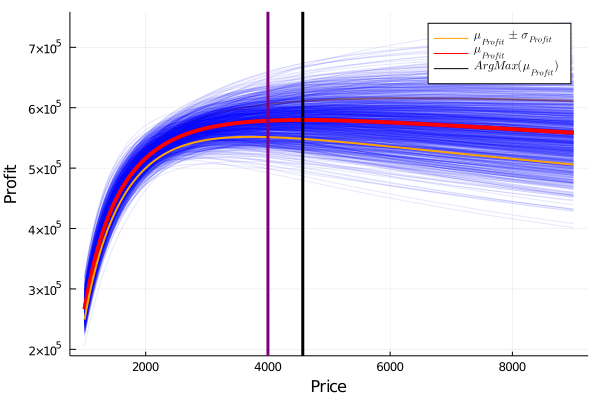
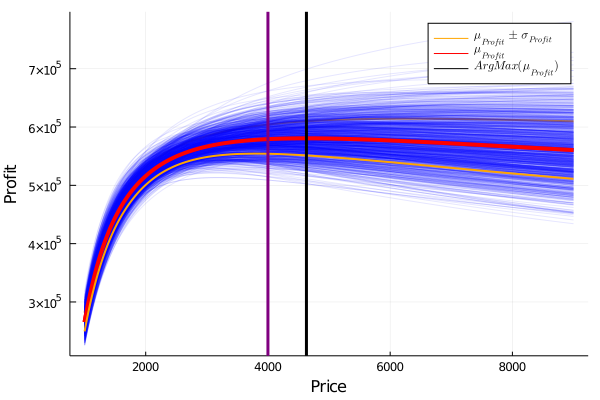
correct Lorenz name

diff --git a/docs/optimal-pricing.html b/docs/optimal-pricing.html
@@ -279,7 +279,7 @@ code span.wa { color: #60a0b0; font-weight: bold; font-style: italic; } /* Warni
   </ul></li>
   <li class="divider"></li>
   <li><a href="https://github.com/unbalancedparentheses/data_science_in_julia_for_hackers" target="blank">Published with bookdown</a></li>
-    
+
 </ul>
 
       </nav>
@@ -311,7 +311,7 @@ code span.wa { color: #60a0b0; font-weight: bold; font-style: italic; } /* Warni
 <span id="cb1-10"><a href="optimal-pricing.html#cb1-10" aria-hidden="true" tabindex="-1"></a><span class="kw">using</span> LaTeXStrings</span></code></pre></div>
 <div id="overview" class="section level2" number="9.1">
 <h2><span class="header-section-number">9.1</span> Overview</h2>
-<p>In a bayesian framework we can work intrinsically with the uncertainty of the data. It allows us to include it in our models. This is especially beneficial when we want to make a decision based on the results of a model. In this type of problem, if we optimize the expected value of the function we want to maximize, we obtain just a number, losing all the information and richness uncertainty can give us.</p>
+<p>In a Bayesian framework we can work intrinsically with the uncertainty of the data. It allows us to include it in our models. This is especially beneficial when we want to make a decision based on the results of a model. In this type of problem, if we optimize the expected value of the function we want to maximize, we obtain just a number, losing all the information and richness uncertainty can give us.</p>
 <p>In real-life scenarios, when making decisions we almost never have all the necessary information and therefore we have to deal with uncertainty. So it’s important to be able to take into account how certain we are of the information we have. It may be the case that the value that maximizes (or minimizes) certain problem comes with a lot of uncertainty so it would be more appropriate to choose other with a better optimization-uncertainty trade off.</p>
 <p>Bayesian inference allows us to do this because of its approach of a statistical problem. From its point of view, the data obtained on an event is fixed. They are observations that have already happened and there is nothing stochastic about it. So the data is deterministic.</p>
 <p>On the contrary, the parameters of the models we propose to describe such data are stochastic, following a given probability distribution. In this way, the inference that is made is on the complete distributions of our parameters, which allows us, precisely, to include the uncertainty into our models.</p>
@@ -345,7 +345,7 @@ code span.wa { color: #60a0b0; font-weight: bold; font-style: italic; } /* Warni
 <p>The answer to this question is not straightforward. To start building an intuition, we must think about how people’s income is distributed.</p>
 <p>Surely many of you have the main idea: income is not distributed equally across the population.</p>
 <p>In general, a few people concentrate most of the income, and only a little of the income is distributed in the majority of the population. The distributions that describe this phenomenon are called ‘power laws.’ The best known is perhaps the Pareto distribution or 80-20 distribution. A distribution widely used in business management referring to the fact that, for example, 20% of the mix of products sold are those that generate 80% of the profits.</p>
-<p>In economics this idea is presented with the Lorentz curve:</p>
+<p>In economics this idea is presented with the Lorenz curve:</p>
 <div class="sourceCode" id="cb3"><pre class="sourceCode julia"><code class="sourceCode julia"><span id="cb3-1"><a href="optimal-pricing.html#cb3-1" aria-hidden="true" tabindex="-1"></a><span class="kw">begin</span></span>
 <span id="cb3-2"><a href="optimal-pricing.html#cb3-2" aria-hidden="true" tabindex="-1"></a><span class="kw">function</span> lorenz(y)  </span>
 <span id="cb3-3"><a href="optimal-pricing.html#cb3-3" aria-hidden="true" tabindex="-1"></a>    n <span class="op">=</span> length(y)</span>
@@ -365,12 +365,12 @@ code span.wa { color: #60a0b0; font-weight: bold; font-style: italic; } /* Warni
 <span id="cb3-17"><a href="optimal-pricing.html#cb3-17" aria-hidden="true" tabindex="-1"></a></span>
 <span id="cb3-18"><a href="optimal-pricing.html#cb3-18" aria-hidden="true" tabindex="-1"></a>f_vals<span class="op">,</span> l_vals <span class="op">=</span> lorenz(w)</span>
 <span id="cb3-19"><a href="optimal-pricing.html#cb3-19" aria-hidden="true" tabindex="-1"></a>    </span>
-<span id="cb3-20"><a href="optimal-pricing.html#cb3-20" aria-hidden="true" tabindex="-1"></a>plot(f_vals<span class="op">,</span> label<span class="op">=</span><span class="st">&quot;Lorentz curve&quot;</span><span class="op">,</span>l_vals<span class="op">,</span> l<span class="op">=</span><span class="fl">3</span><span class="op">,</span>xlabel<span class="op">=</span><span class="st">&quot;Cumulative population&quot;</span><span class="op">,</span> xaxis<span class="op">=</span><span class="fl">0</span><span class="op">:</span><span class="fl">0.1</span><span class="op">:</span><span class="fl">1</span>)</span>
+<span id="cb3-20"><a href="optimal-pricing.html#cb3-20" aria-hidden="true" tabindex="-1"></a>plot(f_vals<span class="op">,</span> label<span class="op">=</span><span class="st">&quot;Lorenz curve&quot;</span><span class="op">,</span>l_vals<span class="op">,</span> l<span class="op">=</span><span class="fl">3</span><span class="op">,</span>xlabel<span class="op">=</span><span class="st">&quot;Cumulative population&quot;</span><span class="op">,</span> xaxis<span class="op">=</span><span class="fl">0</span><span class="op">:</span><span class="fl">0.1</span><span class="op">:</span><span class="fl">1</span>)</span>
 <span id="cb3-21"><a href="optimal-pricing.html#cb3-21" aria-hidden="true" tabindex="-1"></a>plot<span class="op">!</span>(f_vals<span class="op">,</span> label<span class="op">=</span><span class="st">&quot;Perfect equality&quot;</span><span class="op">,</span> f_vals<span class="op">,</span> l<span class="op">=</span><span class="fl">3</span><span class="op">,</span> ylabel<span class="op">=</span><span class="st">&quot;Cumulative income&quot;</span><span class="op">,</span>yaxis<span class="op">=</span><span class="fl">0</span><span class="op">:</span><span class="fl">0.1</span><span class="op">:</span><span class="fl">1</span>)</span>
 <span id="cb3-22"><a href="optimal-pricing.html#cb3-22" aria-hidden="true" tabindex="-1"></a><span class="kw">end</span></span></code></pre></div>
 <p><img src="data_science_in_julia_for_hackers_files/figure-html/chap_9_plot_2-J1.png" /><!-- --></p>
-<p><em>Lorentz curve. A graphical representation of income inequality.</em></p>
-<p>In this graph, the x-axis represents the accumulated population and the y-axis the accumulated income. Going from left to right and as you move along the x-axis, more and more income is accumulated by fewer people. For example, the first 10% of the population barely accumulates 1% of income while the richest 10% on the right accumulates 40%. An ideal society with a perfectly distributed income would have a straight 45º Lorentz curve.</p>
+<p><em>Lorenz curve. A graphical representation of income inequality.</em></p>
+<p>In this graph, the x-axis represents the accumulated population and the y-axis the accumulated income. Going from left to right and as you move along the x-axis, more and more income is accumulated by fewer people. For example, the first 10% of the population barely accumulates 1% of income while the richest 10% on the right accumulates 40%. An ideal society with a perfectly distributed income would have a straight 45º Lorenz curve.</p>
 <p>With this in mind we can already generate an intuition that will help us answer the initial question: why use a decreasing exponential and not a negative-slope line?</p>
 <p>Well, since a great majority of people have a small relative income and a minority has a large one, as we increase the price of the product, a large number of people with low income can no longer afford it. This process continues until only people with a high income are left and their consumption preferences are not greatly affected by the price increase.</p>
 <p>The exponential distribution is useful to describe this.</p>
@@ -412,8 +412,8 @@ Perhaps you are wondering the importance of being able to have clarity about the
 <p><span class="math inline">\(Sales = Quantity * Price\)</span></p>
 <p>So it is vitally important to analyze how much one variable varies when moving the other.</p>
 <p>It is evident that in the case of inelastic goods, it is always convenient to raise the price in terms of increasing the profit. On the other hand, when we work with a good that has some kind of elasticity, the increase generated by setting a higher price can be offset by an even greater drop in the amount sold. So we have to understand very well that behavior in order to define the optimal price level.</p>
-<div id="dealing-with-uncertainty" class="section level4" number="9.2.2.1">
-<h4><span class="header-section-number">9.2.2.1</span> Dealing with uncertainty</h4>
+<div id="dealing-with-uncertanty" class="section level4" number="9.2.2.1">
+<h4><span class="header-section-number">9.2.2.1</span> Dealing with uncertanty</h4>
 <p>Anyway, if our product is a new idea, the problem depicted above gets a lot more complicated if the product is brand new, an invention, and the approach it’s different. That’s the problem we are about to solve:</p>
 <p>Suppose you are about to release a completely new and disrupting product. Your product is so different that you don’t have others to compare with, at least in the local market, so you are not sure about what price to choose. You don’t want to lose money of course, so you want the maximum profit you could get. To test the waters, a common choice is to run a pilot test, offering your product at different prices and see how customers react. So you record how much you sell at what price, but how do we proceed?</p>
 <p>Now, given the model and the data available, we define it</p>
@@ -421,7 +421,7 @@ Perhaps you are wondering the importance of being able to have clarity about the
 <p><span class="math inline">\(Q = aP^{c}\)</span></p>
 <p>In order to do this, an intelligent strategy is to linearize the relationship in order to perform a simple linear regression. Simply taking the logarithm of both sides of the equation achieves the goal:</p>
 <p><span class="math inline">\(log(Q)=log(a) + clog(P)\)</span></p>
-<p>Now, the only thing left to do is to define the model in a bayesian framework for Julia, called Turing, which is used to do probabilistic programming.</p>
+<p>Now, the only thing left to do is to define the model in a Bayesian framework for Julia, called Turing, which is used to do probabilistic programming.</p>
 <div class="sourceCode" id="cb6"><pre class="sourceCode julia"><code class="sourceCode julia"><span id="cb6-1"><a href="optimal-pricing.html#cb6-1" aria-hidden="true" tabindex="-1"></a><span class="kw">begin</span></span>
 <span id="cb6-2"><a href="optimal-pricing.html#cb6-2" aria-hidden="true" tabindex="-1"></a>    <span class="pp">@model</span> <span class="kw">function</span> quantity(qval<span class="op">,</span>p0)</span>
 <span id="cb6-3"><a href="optimal-pricing.html#cb6-3" aria-hidden="true" tabindex="-1"></a>    loga <span class="op">~</span> Cauchy()</span>
@@ -449,7 +449,7 @@ Is doing this the best choice? Definitely not. Having the possibility to choose 
 <p>Another very important use of priors is to define the scale of the problem. In the example of height and weight it would be useful to say something like ‘It doesn’t make sense that for every additional kilogram of weight, a person will measure one meter more. At most a few centimeters.’ All this information can be communicated to our model through the priors we choose. Let’s leave it there for now.</p>
 <p>Returning to the code. Julia allows us to easily define the variables that are probability distributions using the ~ operator. Once we know <em>c</em> and <em>log a</em> for a given value of price, we can univocally determine the quantity, therefore the variables <span class="math inline">\(\log(\mu_0)\)</span> (and <span class="math inline">\(\mu_0\)</span>) are defined with the = operator, indicating a deterministic relation.</p>
 <p>In addition, since the quantity of product sold is a discrete one and it comes from adding independent purchases, they are modeled as a poisson distribution.</p>
-<p>But why do we subtract the mean for the price values? It's a good practice to avoid a common problem: multicollinearity. With multicollinearity, the models tend to be more certain about the plausible values of our model, meanwhile models with more normalized data are more conservative and they are less prone to overfitting, an unwanted effect we need to avoid if we expect our model to work good with new. As a rule of thumb, it is always good to standardize our data. That is, subtract their average and divide each by its standard deviation.</p>
+<p>But why do we subtract the mean for the price values? It’s a good practice to avoid a common problem: multicollinearity. With multicollinearity, the models tend to be more certain about the plausible values of our model, meanwhile models with more normalized data are more conservative and they are less prone to overfitting, an unwanted effect we need to avoid if we expect our model to work good with new. As a rule of thumb, it is always good to standardize our data. That is, subtract their average and divide each by its standard deviation.</p>
 </div>
 <div id="updating-our-beliefs" class="section level4" number="9.2.2.3">
 <h4><span class="header-section-number">9.2.2.3</span> Updating our beliefs</h4>
@@ -464,8 +464,8 @@ Is doing this the best choice? Definitely not. Having the possibility to choose 
 <span id="cb9-8"><a href="optimal-pricing.html#cb9-8" aria-hidden="true" tabindex="-1"></a>    ylabel<span class="op">!</span>(<span class="st">&quot;Quantity&quot;</span>)</span>
 <span id="cb9-9"><a href="optimal-pricing.html#cb9-9" aria-hidden="true" tabindex="-1"></a><span class="kw">end</span></span></code></pre></div>
 <p><img src="data_science_in_julia_for_hackers_files/figure-html/chap_9_plot_6-J1.png" /><!-- --></p>
-<p>As we said, in a bayesian framework our previous knowledge are the distributions we propose for each of the parameters and the relationship known between price and quantity.</p>
-<p>With this bayesian approach, our previous knowledge are the distributions we propose for each of the parameters and the relationship known between price and quantity. What we do now is to update our believes, incorporating in our model the data points we have recoded from our pilot test as show in the code bellow, instantiating our model with the points <em>Quantity</em> and <em>Price</em>. Our model now has computed what is called the <em>posterior distributions</em> for the parameters <em>log a</em> and <em>c</em>, our updated beliefs for the plausible values for this two parameters.</p>
+<p>As we said, in a Bayesian framework our previous knowledge are the distributions we propose for each of the parameters and the relationship known between price and quantity.</p>
+<p>With this Bayesian approach, our previous knowledge are the distributions we propose for each of the parameters and the relationship known between price and quantity. What we do now is to update our believes, incorporating in our model the data points we have recorded from our pilot test as show in the code bellow, instantiating our model with the points <em>Quantity</em> and <em>Price</em>. Our model now has computed what is called the <em>posterior distributions</em> for the parameters <em>log a</em> and <em>c</em>, our updated beliefs for the plausible values for this two parameters.</p>
 <div class="sourceCode" id="cb10"><pre class="sourceCode julia"><code class="sourceCode julia"><span id="cb10-1"><a href="optimal-pricing.html#cb10-1" aria-hidden="true" tabindex="-1"></a><span class="kw">begin</span></span>
 <span id="cb10-2"><a href="optimal-pricing.html#cb10-2" aria-hidden="true" tabindex="-1"></a>    model <span class="op">=</span> quantity(Quantity<span class="op">,</span> Price)</span>
 <span id="cb10-3"><a href="optimal-pricing.html#cb10-3" aria-hidden="true" tabindex="-1"></a>    posterior <span class="op">=</span> sample(model<span class="op">,</span> NUTS()<span class="op">,</span><span class="fl">1000</span>)</span>
@@ -483,9 +483,9 @@ Is doing this the best choice? Definitely not. Having the possibility to choose 
 Let’s stop for a moment and analyze this. We defined our model and asked Turing to return the best possible estimate of our parameters, taking into account our initial beliefs and the information obtained from the pilot test, and what Turing returned was a distribution of possibilities for those parameters.</p>
 <p>But, our model is defined by a single value of a and c. So what do we do? One option would be to take the mean of our distributions.</p>
 <div class="sourceCode" id="cb12"><pre class="sourceCode julia"><code class="sourceCode julia"><span id="cb12-1"><a href="optimal-pricing.html#cb12-1" aria-hidden="true" tabindex="-1"></a>mean(post_loga[<span class="fl">1</span>])</span></code></pre></div>
-<pre><code>## 5.5460012328826735</code></pre>
+<pre><code>## 5.546444583138311</code></pre>
 <div class="sourceCode" id="cb14"><pre class="sourceCode julia"><code class="sourceCode julia"><span id="cb14-1"><a href="optimal-pricing.html#cb14-1" aria-hidden="true" tabindex="-1"></a>mean(post_c[<span class="fl">1</span>])</span></code></pre></div>
-<pre><code>## -1.1838279679326476</code></pre>
+<pre><code>## -1.1808080259045772</code></pre>
 <p>So Log(a) would be 5.55 and c -1.18, and we should only have to replace those values in our model equation to get the answer to our problem:</p>
 <p>$ Log(Q)=5.55 - 1.18Log(P) $</p>
 <p>This would make sense? Not even close. By doing this we would be throwing away a lot of precious information that the Bayesian framework gives us: The uncertainty about our inference.</p>
@@ -501,7 +501,7 @@ Let’s stop for a moment and analyze this. We defined our model and asked Turin
 <span id="cb16-6"><a href="optimal-pricing.html#cb16-6" aria-hidden="true" tabindex="-1"></a>    q[<span class="op">:,</span>i] <span class="op">=</span> exp.(post_loga[<span class="fl">1</span>][i] .<span class="op">+</span> post_c[<span class="fl">1</span>][i] <span class="op">.*</span> (log.(p) .<span class="op">-</span> mean(log.(Price))))</span>
 <span id="cb16-7"><a href="optimal-pricing.html#cb16-7" aria-hidden="true" tabindex="-1"></a><span class="kw">end</span></span>
 <span id="cb16-8"><a href="optimal-pricing.html#cb16-8" aria-hidden="true" tabindex="-1"></a><span class="kw">end</span></span></code></pre></div>
-<p>Here we are creating an array of as many rows as price values we want to observe and with as many columns as samples we have of each of our log and c parameters, that is, as many columns as models we have at our disposal. Let's plot them all and see what happen:</p>
+<p>Here we are creating an array of as many rows as price values we want to observe and with as many columns as samples we have of each of our log and c parameters, that is, as many columns as models we have at our disposal. Let’s plot them all and see what happen:</p>
 <div class="sourceCode" id="cb17"><pre class="sourceCode julia"><code class="sourceCode julia"><span id="cb17-1"><a href="optimal-pricing.html#cb17-1" aria-hidden="true" tabindex="-1"></a><span class="kw">begin</span></span>
 <span id="cb17-2"><a href="optimal-pricing.html#cb17-2" aria-hidden="true" tabindex="-1"></a>    plot(p<span class="op">,</span>q[<span class="op">:,</span><span class="fl">1</span>]<span class="op">,</span> xlim<span class="op">=</span>(<span class="fl">1000</span><span class="op">,</span><span class="fl">6000</span>))</span>
 <span id="cb17-3"><a href="optimal-pricing.html#cb17-3" aria-hidden="true" tabindex="-1"></a>    <span class="kw">for</span> i <span class="kw">in</span> collect(<span class="fl">1</span><span class="op">:</span>length(post_c[<span class="fl">1</span>]))</span>
@@ -531,7 +531,7 @@ Let’s stop for a moment and analyze this. We defined our model and asked Turin
 <h2><span class="header-section-number">9.3</span> Maximizing profit</h2>
 <p>Now that we have estimated our posterior distributions, we will try to answer the following question: what is the price that will give us the maximum profit?</p>
 <p>This is why we calculated the relationship between the price and the quantity of our product. As we said before, depending on that relation, it was going to be possible to define an optimal price point. Now we only have to add one more part to the equation: the production costs.</p>
-<p>Having this, we will be able to set up our profit function that will tell us, for each price we choose, how much money we would expect to earn. So let's define it:</p>
+<p>Having this, we will be able to set up our profit function that will tell us, for each price we choose, how much money we would expect to earn. So let’s define it:</p>
 <p>As many of you know, the profit on the sale of a product is calculated as income minus costs.</p>
 <p><span class="math inline">\(Profit=Price * Quantity - Cost\)</span></p>
 <p>But also the cost can be divided between the one that doesn’t depend on the production and I always have, and the one that does.</p>
@@ -547,12 +547,12 @@ Let’s stop for a moment and analyze this. We defined our model and asked Turin
 <p>Now we can plot the profit for many sampled values from the posterior distributions of our model and find the maximum.</p>
 <div class="sourceCode" id="cb20"><pre class="sourceCode julia"><code class="sourceCode julia"><span id="cb20-1"><a href="optimal-pricing.html#cb20-1" aria-hidden="true" tabindex="-1"></a>mxval<span class="op">,</span> mxindx <span class="op">=</span> findmax(mean(profit<span class="op">,</span> dims<span class="op">=</span><span class="fl">2</span>)<span class="op">;</span> dims<span class="op">=</span><span class="fl">1</span>)<span class="op">;</span></span></code></pre></div>
 <div class="sourceCode" id="cb21"><pre class="sourceCode julia"><code class="sourceCode julia"><span id="cb21-1"><a href="optimal-pricing.html#cb21-1" aria-hidden="true" tabindex="-1"></a>mxval[<span class="fl">1</span>]</span></code></pre></div>
-<pre><code>## 579697.8940202671</code></pre>
+<pre><code>## 580629.7407600599</code></pre>
 <p>With the unfavorable (or favorable) case of:</p>
 <div class="sourceCode" id="cb23"><pre class="sourceCode julia"><code class="sourceCode julia"><span id="cb23-1"><a href="optimal-pricing.html#cb23-1" aria-hidden="true" tabindex="-1"></a>unfav <span class="op">=</span> mxval[<span class="fl">1</span>] <span class="op">-</span> std(profit[mxindx[<span class="fl">1</span>][<span class="fl">1</span>]<span class="op">,</span> <span class="op">:</span> ])</span></code></pre></div>
-<pre><code>## 548417.8658175807</code></pre>
+<pre><code>## 551273.5077073544</code></pre>
 <div class="sourceCode" id="cb25"><pre class="sourceCode julia"><code class="sourceCode julia"><span id="cb25-1"><a href="optimal-pricing.html#cb25-1" aria-hidden="true" tabindex="-1"></a>fav <span class="op">=</span> mxval[<span class="fl">1</span>] <span class="op">+</span> std(profit[mxindx[<span class="fl">1</span>][<span class="fl">1</span>]<span class="op">,</span> <span class="op">:</span> ])</span></code></pre></div>
-<pre><code>## 610977.9222229534</code></pre>
+<pre><code>## 609985.9738127654</code></pre>
 <div class="sourceCode" id="cb27"><pre class="sourceCode julia"><code class="sourceCode julia"><span id="cb27-1"><a href="optimal-pricing.html#cb27-1" aria-hidden="true" tabindex="-1"></a><span class="kw">begin</span></span>
 <span id="cb27-2"><a href="optimal-pricing.html#cb27-2" aria-hidden="true" tabindex="-1"></a>s <span class="op">=</span> latexstring(<span class="st">&quot;</span><span class="sc">\\</span><span class="st">mu_{Profit}&quot;</span>)</span>
 <span id="cb27-3"><a href="optimal-pricing.html#cb27-3" aria-hidden="true" tabindex="-1"></a>s2 <span class="op">=</span> latexstring(<span class="st">&quot;</span><span class="sc">\\</span><span class="st">mu_{Profit} </span><span class="sc">\\</span><span class="st">pm </span><span class="sc">\\</span><span class="st">sigma_{Profit}&quot;</span>)</span>
@@ -589,12 +589,12 @@ For example, let’s look at the case where an alternative price of $4000 is cho
 <div class="sourceCode" id="cb32"><pre class="sourceCode julia"><code class="sourceCode julia"><span id="cb32-1"><a href="optimal-pricing.html#cb32-1" aria-hidden="true" tabindex="-1"></a><span class="co">#A faster way:</span></span>
 <span id="cb32-2"><a href="optimal-pricing.html#cb32-2" aria-hidden="true" tabindex="-1"></a>prof_4000 <span class="op">=</span> profit[findfirst(isequal(<span class="fl">4000</span>)<span class="op">,</span> p)<span class="op">,</span> <span class="op">:</span>]<span class="op">;</span></span></code></pre></div>
 <div class="sourceCode" id="cb33"><pre class="sourceCode julia"><code class="sourceCode julia"><span id="cb33-1"><a href="optimal-pricing.html#cb33-1" aria-hidden="true" tabindex="-1"></a>mean_prof_4000 <span class="op">=</span> mean(profit_4000)</span></code></pre></div>
-<pre><code>## 578540.069393245</code></pre>
+<pre><code>## 579251.5221961857</code></pre>
 <p>With the unfavorable (or favorable) case of:</p>
 <div class="sourceCode" id="cb35"><pre class="sourceCode julia"><code class="sourceCode julia"><span id="cb35-1"><a href="optimal-pricing.html#cb35-1" aria-hidden="true" tabindex="-1"></a>unfav_4000 <span class="op">=</span> mean(profit_4000) <span class="op">-</span> std(profit_4000)</span></code></pre></div>
-<pre><code>## 551381.9489297445</code></pre>
+<pre><code>## 554168.5339511412</code></pre>
 <div class="sourceCode" id="cb37"><pre class="sourceCode julia"><code class="sourceCode julia"><span id="cb37-1"><a href="optimal-pricing.html#cb37-1" aria-hidden="true" tabindex="-1"></a>mean(profit_4000) <span class="op">+</span> std(profit_4000)</span></code></pre></div>
-<pre><code>## 605698.1898567455</code></pre>
+<pre><code>## 604334.5104412301</code></pre>
 <div class="sourceCode" id="cb39"><pre class="sourceCode julia"><code class="sourceCode julia"><span id="cb39-1"><a href="optimal-pricing.html#cb39-1" aria-hidden="true" tabindex="-1"></a><span class="kw">begin</span>   </span>
 <span id="cb39-2"><a href="optimal-pricing.html#cb39-2" aria-hidden="true" tabindex="-1"></a>plot(p<span class="op">,</span>mean(profit<span class="op">,</span> dims<span class="op">=</span><span class="fl">2</span>) <span class="op">+</span> std(profit<span class="op">,</span> dims<span class="op">=</span><span class="fl">2</span>)<span class="op">,</span>  color <span class="op">=</span> <span class="st">&quot;orange&quot;</span><span class="op">,</span> lw<span class="op">=</span><span class="fl">2</span><span class="op">,</span> label <span class="op">=</span>s2)</span>
 <span id="cb39-3"><a href="optimal-pricing.html#cb39-3" aria-hidden="true" tabindex="-1"></a>plot<span class="op">!</span>(p<span class="op">,</span>mean(profit<span class="op">,</span> dims<span class="op">=</span><span class="fl">2</span>)<span class="op">,</span> color <span class="op">=</span> <span class="st">&quot;red&quot;</span><span class="op">,</span> lw<span class="op">=</span><span class="fl">4</span><span class="op">,</span> label<span class="op">=</span><span class="st">&quot;&quot;</span>)</span>
@@ -612,14 +612,14 @@ For example, let’s look at the case where an alternative price of $4000 is cho
 <p><img src="data_science_in_julia_for_hackers_files/figure-html/chap_9_plot_12-J1.png" /><!-- --></p>
 <p>Then, by choosing a price of $4000 the average profit goes from $582800 to $58120. That is, a percentage variation of:</p>
 <div class="sourceCode" id="cb40"><pre class="sourceCode julia"><code class="sourceCode julia"><span id="cb40-1"><a href="optimal-pricing.html#cb40-1" aria-hidden="true" tabindex="-1"></a>porcentual_profit_diff <span class="op">=</span> ((mean(profit_4000) <span class="op">-</span> mxval[<span class="fl">1</span>]) <span class="op">/</span> mxval[<span class="fl">1</span>]) <span class="op">*</span> <span class="fl">100</span></span></code></pre></div>
-<pre><code>## -0.19972896899665932</code></pre>
+<pre><code>## -0.23736616764930557</code></pre>
 <p>While the most unfavorable case goes from $549705 to $553298.5. That is, a percentage variation of:</p>
 <div class="sourceCode" id="cb42"><pre class="sourceCode julia"><code class="sourceCode julia"><span id="cb42-1"><a href="optimal-pricing.html#cb42-1" aria-hidden="true" tabindex="-1"></a>porcentual_std_diff <span class="op">=</span> ( unfav_4000 <span class="op">-</span> unfav) <span class="op">/</span> unfav <span class="op">*</span><span class="fl">100</span></span></code></pre></div>
-<pre><code>## 0.5404789480636205</code></pre>
+<pre><code>## 0.52515243401169</code></pre>
 <div class="sourceCode" id="cb44"><pre class="sourceCode julia"><code class="sourceCode julia"><span id="cb44-1"><a href="optimal-pricing.html#cb44-1" aria-hidden="true" tabindex="-1"></a> porcentual_std_diff <span class="op">/</span> porcentual_profit_diff</span></code></pre></div>
-<pre><code>## -2.7060618736416777</code></pre>
+<pre><code>## -2.212414849228099</code></pre>
 <p>So, for every dollar we “lost” in average profitability, we gained more than double in the reduction of uncertainty.</p>
-<p>Regardless of each person's decision, the important thing about the Bayesian framework is that it allows us to include uncertainty in our models and use it to our advantage to make more informed and intelligent decisions.</p>
+<p>Regardless of each person’s decision, the important thing about the Bayesian framework is that it allows us to include uncertainty in our models and use it to our advantage to make more informed and intelligent decisions.</p>
 <p>Instead of wanting to forget and get rid of uncertainty, Bayesianism allows us to accept that this is an inherent feature of reality and to take advantage of it. Being able to narrow down how sure we are about the inferences we make gives us an invaluable advantage when making decisions.</p>
 </div>
 <div id="summary-7" class="section level2" number="9.4">
